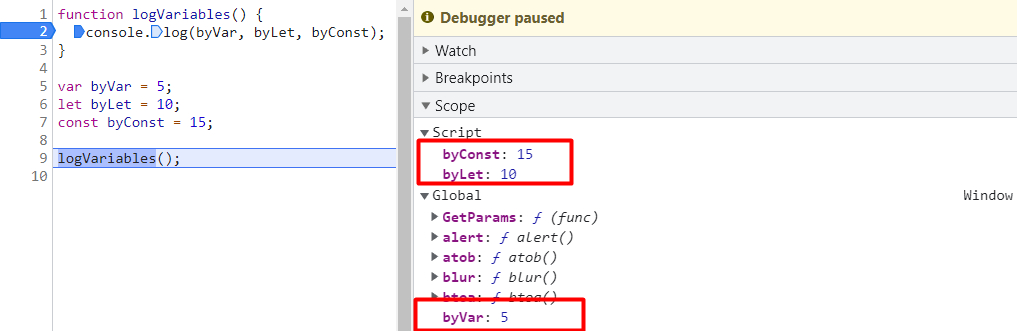
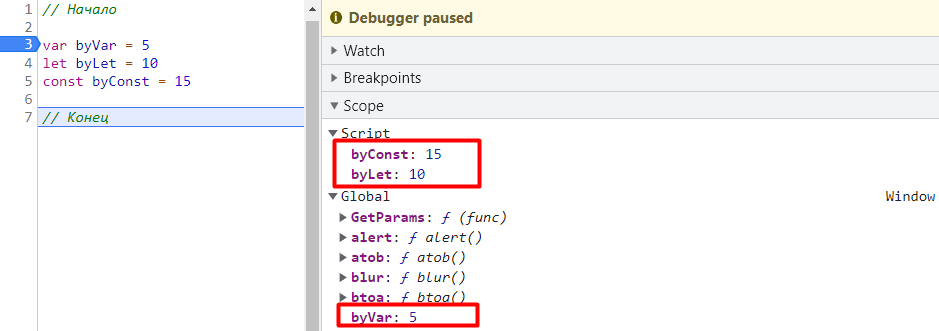
Редактирует пример и объяснение всплытия

Changed region(s): [[0.0, 0.0, 1.0, 1.0], [0.9265, 0.574, 1.0, 0.6042], [0.1544, 0.1813, 0.1853, 0.2115]]

diff --git a/js/var-let/index.md b/js/var-let/index.md
@@ -45,23 +45,20 @@ var varname5 = true,
 Объявление переменной всегда «всплывает» в начало функции или кода. Это процесс называется - _"hoisting"_.
 
 ```js
-function logVariables() {
-  console.log(byVar, byLet, byConst)
-}
+// Начало
 
 var byVar = 5
 let byLet = 10
 const byConst = 15
 
-logVariables()
-// 5 10 15
+// Конец
 ```
 
-В начале скрипта:
+В начале скрипта все переменные равны `undefined`:
 
 ![код со всплытием переменных](images/variables-hoisting-start.png)
 
-В конце скрипта:
+В конце скрипта, после того как произошли инициализация и присвоение значений, переменные равны `5`, `10` и `15`:
 
 ![код со всплытием переменных](images/variables-hoisting-finish.png)
 
